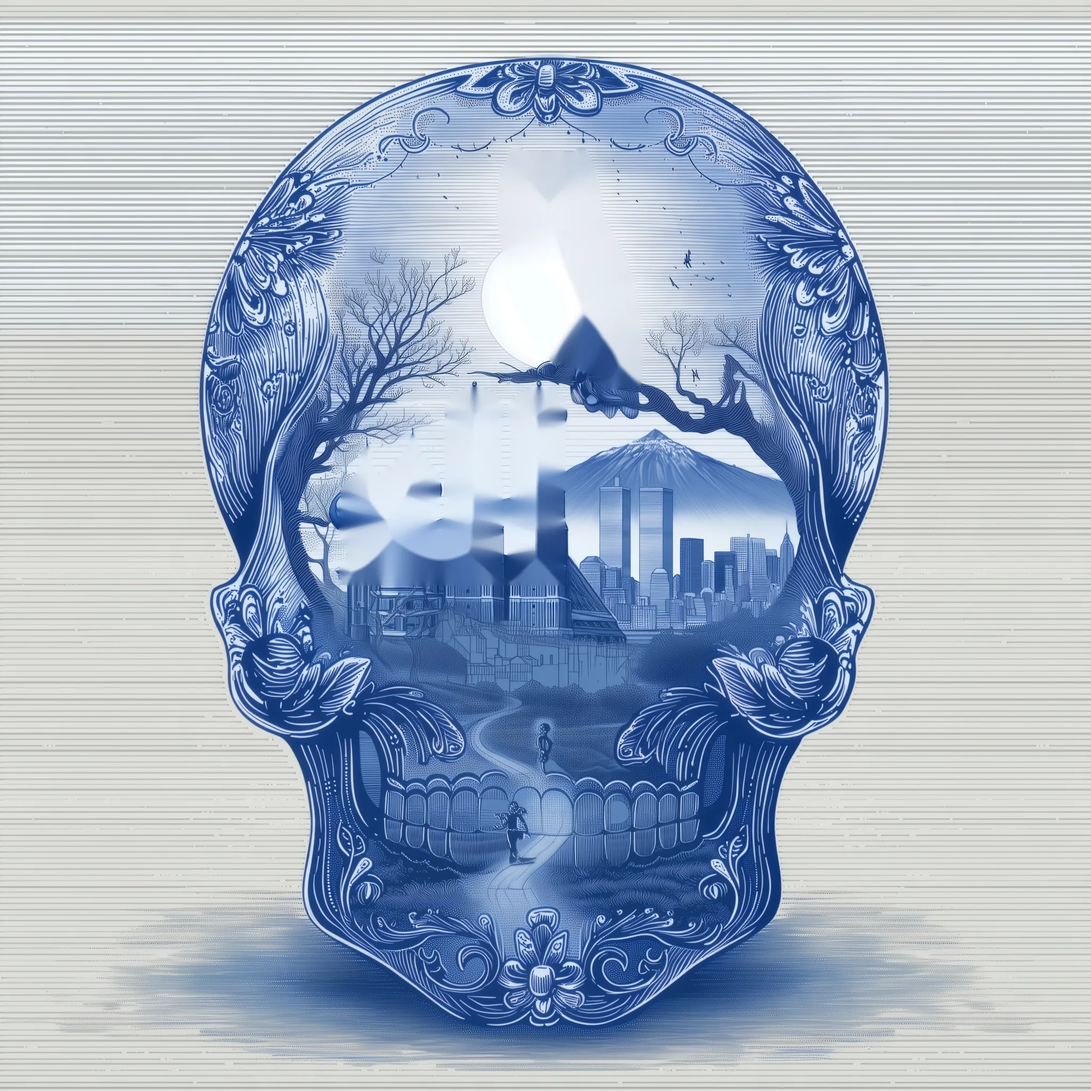
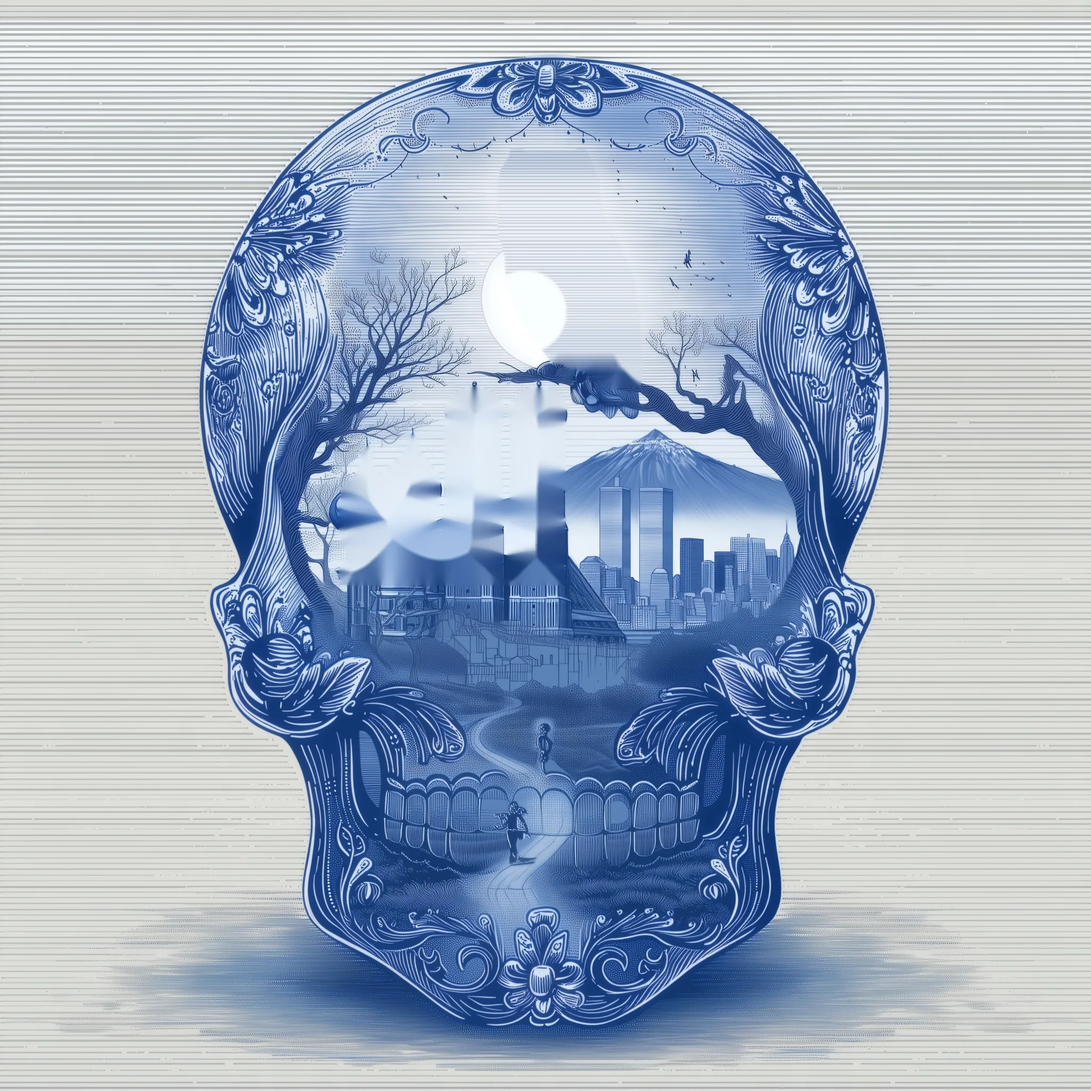
Add skater on the path, sprouting mushrooms and the first easter eggs
- A skater rolls down the path through the jaw
- Clicking the skull sprouts mushrooms; every tenth one sets the whole
  skull tripping for a few seconds
- Shake the branch three times and the owl flies off, then comes back
- Colour pool now tints the live layers (owl, rider, churches) instead of
  a second copy of the image, which also saves a 500 KB download
- Cleaner sky behind the owl for when it is away

Claude-Session: https://claude.ai/code/session_017VwAiJ6P8Dn52yEYRaDiLX

Changed region(s): [[0.4688, 0.125, 0.5625, 0.3438]]

diff --git a/css/site.css b/css/site.css
@@ -69,15 +69,19 @@ a { color: var(--ink); }
 .tilt { position: absolute; inset: 0; transform: perspective(1100px) rotateX(calc(var(--ty, 0) * -3.2deg)) rotateY(calc(var(--tx, 0) * 3.2deg)); will-change: transform; }
 .skull img { position: absolute; inset: 0; width: 100%; height: 100%; display: block; user-select: none; -webkit-user-drag: none; }
 .skull .trip {
-  filter: hue-rotate(60deg) saturate(2.6) contrast(1.08);
+  position: absolute; inset: 0; pointer-events: none;
+  -webkit-backdrop-filter: hue-rotate(60deg) saturate(2.6) contrast(1.08); backdrop-filter: hue-rotate(60deg) saturate(2.6) contrast(1.08);
   animation: trip 7s linear infinite;
   -webkit-mask-image: radial-gradient(circle var(--r) at var(--mx) var(--my), #000 45%, transparent 100%);
           mask-image: radial-gradient(circle var(--r) at var(--mx) var(--my), #000 45%, transparent 100%);
   transition: --r .55s cubic-bezier(.2, .8, .2, 1), --mx .5s cubic-bezier(.2, .8, .2, 1), --my .5s cubic-bezier(.2, .8, .2, 1);
-  pointer-events: none;
 }
 .skull.follow .trip { transition: --r .45s; }
-@keyframes trip { from { filter: hue-rotate(40deg) saturate(2.6) contrast(1.08); } to { filter: hue-rotate(400deg) saturate(2.6) contrast(1.08); } }
+.skull.full .trip { -webkit-mask-image: none; mask-image: none; }
+@keyframes trip {
+  from { -webkit-backdrop-filter: hue-rotate(40deg) saturate(2.6) contrast(1.08); backdrop-filter: hue-rotate(40deg) saturate(2.6) contrast(1.08); }
+  to { -webkit-backdrop-filter: hue-rotate(400deg) saturate(2.6) contrast(1.08); backdrop-filter: hue-rotate(400deg) saturate(2.6) contrast(1.08); }
+}
 .spot { position: absolute; display: block; border-radius: 50%; text-decoration: none; -webkit-tap-highlight-color: transparent; }
 .spot::before { /* pulsing ink dot that says "something is here" */
   content: ""; position: absolute; left: 50%; top: 50%; width: 9px; height: 9px; margin: -4.5px;
@@ -199,5 +203,37 @@ dialog::backdrop { background: rgba(18, 38, 95, .93); }
   70% { transform: translate(74%, 54%) scale(1) rotate(-5deg); }
   86% { opacity: 1; }
   100% { opacity: 0; transform: translate(104%, 74%) scale(1.08) rotate(4deg); }
+}
+.branch { position: absolute; display: block; cursor: pointer; -webkit-tap-highlight-color: transparent; }
+.owl.away > div { animation: flyoff 1.5s cubic-bezier(.5, 0, .9, .6) forwards; }
+.owl.back > div { animation: flyoff 1.6s cubic-bezier(.1, .4, .5, 1) reverse both; }
+@keyframes flyoff {
+  0% { transform: translate(0, 0) scale(1) rotate(0); opacity: 1; }
+  12% { transform: translate(0, 3%) scale(1.06, .92); }
+  30% { transform: translate(25%, -30%) scale(.9, 1.05) rotate(12deg); }
+  45% { transform: translate(70%, -60%) scale(1.05, .85) rotate(18deg); }
+  60% { transform: translate(130%, -95%) scale(.8, .95) rotate(22deg); }
+  75% { transform: translate(200%, -125%) scale(.75, .62) rotate(26deg); opacity: 1; }
+  100% { transform: translate(330%, -180%) scale(.45) rotate(30deg); opacity: 0; }
+}
+.walker { position: absolute; left: 48.6%; top: 58.2%; width: 4.6%; pointer-events: none; opacity: 0; }
+.walker img, .sprouts img { position: static; width: 100%; height: auto; }
+.walker.go { animation: roll 5.2s ease-in forwards; }
+@keyframes roll {
+  0% { opacity: 0; transform: translate(40%, 0) scale(.35); }
+  10% { opacity: 1; }
+  35% { transform: translate(-10%, 95%) scale(.6) rotate(-4deg); }
+  65% { transform: translate(-55%, 240%) scale(.95) rotate(5deg); }
+  88% { opacity: 1; }
+  100% { opacity: 0; transform: translate(35%, 420%) scale(1.35) rotate(-3deg); }
+}
+.sprouts { position: absolute; inset: 0; pointer-events: none; }
+.sprouts span { position: absolute; width: 5.2%; margin: -5% 0 0 -2.6%; transform-origin: 50% 100%; animation: sprout 7s ease-out forwards; }
+@keyframes sprout {
+  0% { transform: scale(0) rotate(-12deg); opacity: 1; }
+  7% { transform: scale(1.18) rotate(4deg); }
+  12% { transform: scale(1) rotate(0); }
+  85% { transform: scale(1); opacity: 1; }
+  100% { transform: scale(.9); opacity: 0; }
 }
 @media (prefers-reduced-motion: reduce) { .city { transform: none; } .moonglow, .stars i, .clouds i, .owl > div { animation: none !important; } .tilt, .owl { transform: none; } }

diff --git a/js/site.js b/js/site.js
@@ -85,7 +85,7 @@
     // The owl blinks, and now and then leans over for a look
     const owl = $('owl');
     const once = (cls, ms) => { owl.classList.add(cls); setTimeout(() => owl.classList.remove(cls), ms); };
-    const blink = () => { once('blink', 170); if (Math.random() < .25) setTimeout(() => once('blink', 150), 320); setTimeout(blink, 2600 + Math.random() * 4200); };
+    const blink = () => { if (!owl.classList.contains('away')) once('blink', 170); if (Math.random() < .25) setTimeout(() => once('blink', 150), 320); setTimeout(blink, 2600 + Math.random() * 4200); };
     if (!calm) { setTimeout(blink, 1800); setInterval(() => once('peek', 2400), 17000); }
     // A snowboarder drops in on the Teide: on hover, and every so often on his own
     const rider = $('rider');
@@ -93,6 +93,36 @@
     $('teide').addEventListener('pointerenter', ride);
     $('teide').addEventListener('click', ride);
     if (!calm) { setTimeout(ride, 6000); setInterval(ride, 23000); }
+    // A skater rolls down the path through the jaw
+    const walker = $('walker');
+    const roll = () => { if (!calm && !walker.classList.contains('go')) { walker.classList.add('go'); setTimeout(() => walker.classList.remove('go'), 5300); } };
+    skull.querySelector('.spot[href="timeline.html"]').addEventListener('pointerenter', roll);
+    if (!calm) { setTimeout(roll, 14000); setInterval(roll, 31000); }
+
+    // Mushrooms sprout wherever you click the skull itself
+    const sprouts = $('sprouts'), tilt = skull.querySelector('.tilt');
+    let grown = 0;
+    tilt.addEventListener('click', e => {
+      if (e.target.closest('.spot, .branch, .teide')) return;
+      const b = tilt.getBoundingClientRect(), x = (e.clientX - b.left) / b.width * 100, y = (e.clientY - b.top) / b.height * 100;
+      if (Math.hypot(x - 50, (y - 50) * .82) > 37) return; // only on the skull, not the paper
+      const m = document.createElement('span');
+      m.style.cssText = `left:${x}%;top:${y}%`; m.innerHTML = '<img src="assets/mushrooms.webp" alt="">';
+      if (Math.random() < .5) m.firstChild.style.transform = 'scaleX(-1)';
+      sprouts.appendChild(m); setTimeout(() => m.remove(), 7000);
+      // easter egg: ten mushrooms and the whole skull trips for a while
+      if (++grown % 10 === 0) { skull.classList.add('full'); setTimeout(() => skull.classList.remove('full'), 9000); }
+    });
+
+    // Easter egg: shake the branch three times and the owl takes off
+    let shakes = 0, gone = false;
+    $('branch').addEventListener('click', () => {
+      if (gone) return;
+      if (++shakes < 3) return once('hoot', 700);
+      shakes = 0; gone = true; owl.classList.add('away');
+      setTimeout(() => { owl.classList.remove('away'); owl.classList.add('back'); }, 14000);
+      setTimeout(() => { owl.classList.remove('back'); gone = false; }, 15700);
+    });
     window.owlHoot = () => { if (!calm && !owl.classList.contains('hoot')) once('hoot', 700); };
   }
 

diff --git a/index.html b/index.html
@@ -21,7 +21,10 @@
       <div class="clock" style="left:48.88%"><i class="h"></i><i class="m"></i></div>
     </div>
     <div class="owl" id="owl" aria-hidden="true"><div><img src="assets/owl.webp" alt=""><i class="lid" style="left:26.04%;top:18.38%"></i><i class="lid" style="left:49.31%;top:17.74%"></i></div></div>
-    <img class="trip" src="assets/skull.webp" alt="" aria-hidden="true">
+    <div class="walker" id="walker" aria-hidden="true"><img src="assets/skater.webp" alt=""></div>
+    <div class="sprouts" id="sprouts" aria-hidden="true"></div>
+    <div class="trip" aria-hidden="true"></div>
+    <span class="branch" id="branch" style="left:58.5%;top:32.5%;width:10%;height:6%"></span>
     <a class="spot" href="music.html" style="left:42.5%;top:23%;width:6%;height:11%;--d:0s"><b>Music</b></a>
     <a class="spot" href="bio.html" style="left:47%;top:13%;width:12%;height:21%;--d:.3s"><b>Bio</b></a>
     <a class="spot" href="blog.html" style="left:31%;top:22%;width:11%;height:17%;--d:.6s"><b>Blog</b></a>
